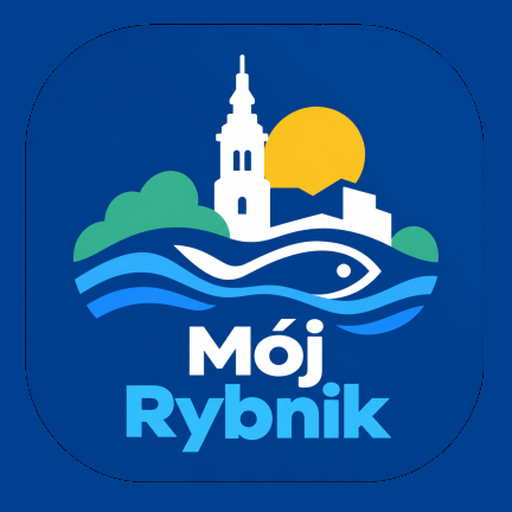
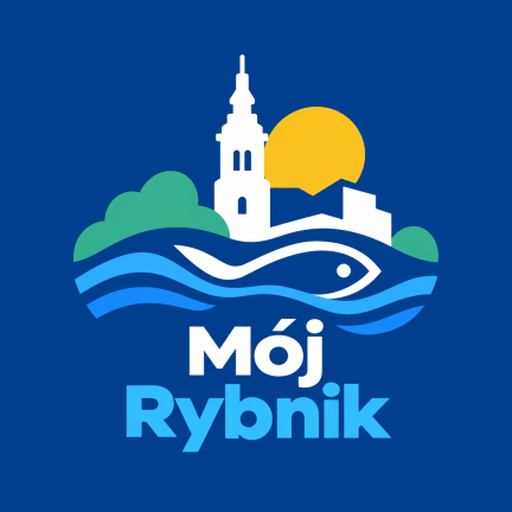
docs(play): store assets as uploaded for the first release
The old screenshots were 19:9 and Play Console takes only exactly 9:16
or 16:9, so screenshots-916/ holds new ones for phone, 7" and 10"
tablets, captioned within Google's 20% band, rebuilt by
make_store_assets.py from the raw captures. The icon loses its inner
rounded frame, since Play rounds the corners itself and the old one
came out as an icon inside an icon; the framed version is kept for
reference. Descriptions as plain text for pasting, because Play keeps
every line break the markdown copy has for readability.

diff --git a/play/make_store_assets.py b/play/make_store_assets.py
@@ -1,0 +1,150 @@
+#!/usr/bin/env python3
+# -*- coding: utf-8 -*-
+"""
+Grafiki do karty Mój Rybnik w Google Play.
+
+    python play/make_store_assets.py
+
+Wejście:  play/screenshots-916/raw-*/   surowe zrzuty z emulatorów 9:16
+          (telefon 1080×1920, tablet 7" 1080×1920 @280 dpi, tablet 10" 1440×2560 @320 dpi)
+Wyjście:  play/screenshots-916/phone/, tablet-7/, tablet-10/   zrzuty z podpisami
+          play/graphics/icon-512.png                           ikona bez wewnętrznej ramki
+
+Zasady Google Play, których pilnuje skrypt:
+  - proporcje dokładnie 9:16, boki 320–3840 px (telefon) i 1080–7680 px (tablety), do 8 MB
+  - podpis zajmuje najwyżej 20% wysokości; bez ramek urządzeń, bez „Pobierz teraz”, „#1”, cen
+  - PNG bez przezroczystości
+"""
+
+import sys
+from pathlib import Path
+
+from PIL import Image, ImageChops, ImageDraw, ImageFilter, ImageFont
+
+PLAY = Path(__file__).parent
+SHOTS = PLAY / "screenshots-916"
+FONTS = Path("C:/Windows/Fonts")
+
+NAVY, NAVY_2 = (0, 62, 142), (0, 38, 92)       # tło ikony aplikacji i jego ciemniejsza wersja
+WHITE, SKY = (255, 255, 255), (125, 200, 255)
+
+CAPTIONS = {
+    "01-start": ("Najważniejsze na jednym ekranie", "powietrze, komunikaty, wywóz i odjazdy"),
+    "02-odpady": ("Wywóz odpadów pod Twój adres", "przypomnienie wieczorem dzień wcześniej"),
+    "02-odjazdy": ("Odjazdy z Twojego przystanku", "rozkład KM Rybnik, także bez internetu"),
+    "03-polaczenia": ("Połączenia skąd–dokąd", "również z przesiadką"),
+    "03-kalendarz-odpadow": ("Kalendarz wywozów", "cały miesiąc dla Twojego adresu"),
+    "04-wydarzenia": ("Co się dzieje w mieście", "koncerty, spektakle, wystawy i sport"),
+    "05-wiadomosci": ("Lokalne wiadomości i komunikaty", "utrudnienia i awarie na górze listy"),
+    "06-gdzie-wyrzucic": ("Gdzie to wyrzucić?", "słownik odpadów, PSZOK i GPZON"),
+    "07-kalendarz-odpadow": ("Kalendarz wywozów", "cały miesiąc dla Twojego adresu"),
+    "08-ciemny-motyw": ("Jasny i ciemny motyw", "bez reklam i bez zakładania konta"),
+}
+
+SETS = {  # katalog wejściowy → (wyjściowy, rozmiar płótna, zakres boków wg Google)
+    "raw-phone": ("phone", (1080, 1920), (320, 3840)),
+    "raw-tablet7": ("tablet-7", (1080, 1920), (1080, 7680)),
+    "raw-tablet10": ("tablet-10", (1440, 2560), (1080, 7680)),
+}
+
+BAND = 0.1875      # pas z podpisem: 18,75% wysokości (limit Google to 20%)
+MAX_BYTES = 8 * 1024 * 1024
+
+
+def font(name, size):
+    return ImageFont.truetype(str(FONTS / name), size)
+
+
+def background(w, h):
+    top = Image.new("RGB", (w, h), NAVY)
+    bottom = Image.new("RGB", (w, h), NAVY_2)
+    mask = Image.linear_gradient("L").resize((w, h))
+    return Image.composite(bottom, top, mask)
+
+
+def fit_text(d, text, name, size, max_w):
+    while size > 20:
+        f = font(name, size)
+        if d.textlength(text, font=f) <= max_w:
+            return f
+        size -= 2
+    return font(name, size)
+
+
+def compose(raw: Path, size):
+    W, H = size
+    s = W / 1080
+    im = background(W, H)
+    d = ImageDraw.Draw(im)
+    title, sub = CAPTIONS[raw.stem]
+    band = int(H * BAND)
+
+    ft = fit_text(d, title, "segoeuib.ttf", int(66 * s), W - int(100 * s))
+    fs = fit_text(d, sub, "segoeui.ttf", int(42 * s), W - int(100 * s))
+    th = ft.getbbox(title)[3]
+    sh = fs.getbbox(sub)[3]
+    gap = int(18 * s)
+    y0 = (band - (th + gap + sh)) // 2 + int(10 * s)
+    d.text((W / 2, y0), title, font=ft, fill=WHITE, anchor="mt")
+    d.text((W / 2, y0 + th + gap), sub, font=fs, fill=SKY, anchor="mt")
+
+    shot = Image.open(raw).convert("RGB")
+    top, bottom = band + int(24 * s), H - int(44 * s)
+    sh_h = bottom - top
+    sh_w = round(sh_h * shot.width / shot.height)
+    shot = shot.resize((sh_w, sh_h), Image.LANCZOS)
+    x = (W - sh_w) // 2
+    r = int(34 * s)
+
+    mask = Image.new("L", (sh_w, sh_h), 0)
+    ImageDraw.Draw(mask).rounded_rectangle([0, 0, sh_w - 1, sh_h - 1], radius=r, fill=255)
+    shadow = Image.new("L", (W, H), 0)
+    shadow.paste(mask, (x, top + int(16 * s)))
+    shadow = shadow.filter(ImageFilter.GaussianBlur(int(28 * s))).point(lambda v: int(v * .55))
+    im.paste(Image.new("RGB", (W, H), (0, 12, 30)), (0, 0), shadow)
+    im.paste(shot, (x, top), mask)
+    return im
+
+
+def clean_icon():
+    """Ikona bez wewnętrznego zaokrąglonego kwadratu: Play sam zaokrągla rogi."""
+    src = PLAY / "graphics" / "icon-512-z-ramka.png"
+    if not src.exists():
+        (PLAY / "graphics" / "icon-512.png").rename(src)
+    im = Image.open(src).convert("RGB")
+    inner = Image.new("L", im.size, 0)
+    ImageDraw.Draw(inner).rounded_rectangle([41, 40, 467, 465], radius=110, fill=255)
+    art = ImageChops.difference(im, Image.new("RGB", im.size, NAVY)).convert("L").point(lambda v: 255 if v > 28 else 0)
+    art = ImageChops.multiply(art, inner).filter(ImageFilter.MaxFilter(7)).filter(ImageFilter.GaussianBlur(1.2))
+    out = Image.new("RGB", im.size, NAVY)
+    out.paste(im, (0, 0), art)
+    out.save(PLAY / "graphics" / "icon-512.png", optimize=True)
+    return out
+
+
+def main():
+    problems = []
+    for src_dir, (dst_dir, size, (lo, hi)) in SETS.items():
+        src, dst = SHOTS / src_dir, SHOTS / dst_dir
+        dst.mkdir(exist_ok=True)
+        raws = sorted(src.glob("*.png"))
+        for raw in raws:
+            out = dst / raw.name
+            compose(raw, size).save(out, optimize=True)
+            w, h = Image.open(out).size
+            ok = w * 16 == h * 9 and lo <= min(w, h) and max(w, h) <= hi and out.stat().st_size <= MAX_BYTES
+            if not ok:
+                problems.append(out)
+            print(f"  {dst_dir}/{out.name:<26} {w}×{h} {out.stat().st_size // 1024:>5} KB {'OK' if ok else 'BŁĄD'}")
+        if len(raws) < (2 if dst_dir == "phone" else 4):
+            problems.append(f"{dst_dir}: za mało zrzutów ({len(raws)})")
+
+    icon = clean_icon()
+    print(f"  graphics/icon-512.png {icon.size} {icon.mode}")
+    if problems:
+        sys.exit(f"Problemy: {problems}")
+    print("Wszystko w limitach Google Play.")
+
+
+if __name__ == "__main__":
+    main()

diff --git a/play/store-listing.md b/play/store-listing.md
@@ -33,6 +33,9 @@ Mój Rybnik zbiera w jednym miejscu to, czego rybniczanin szuka w ciągu dnia: k
 jedzie autobus, kiedy zabiorą śmieci spod domu, co się dzieje wieczorem w mieście i
 czy da się dziś otworzyć okno.
 
+To niezależny projekt, a nie oficjalna aplikacja Urzędu Miasta Rybnika. Skąd
+pochodzą dane, piszemy na końcu opisu.
+
 CO ZNAJDZIESZ W APLIKACJI
 
 Start
@@ -101,10 +104,11 @@ systemu.
 
 ŹRÓDŁA DANYCH
 
-KM Rybnik (rozkład jazdy), EKO Sp. z o.o. i Miasto Rybnik (odpady, PSZOK, GPZON),
-Główny Inspektorat Ochrony Środowiska (powietrze), IMGW (ostrzeżenia), Tauron
-Dystrybucja (wyłączenia prądu), lokalne redakcje i instytucje kultury (wydarzenia
-i wiadomości), 90minut.pl i kluby (sport).
+KM Rybnik, km.rybnik.pl (rozkład jazdy); Miasto Rybnik i EKO Sp. z o.o., rybnik.eu
+(odpady, PSZOK, GPZON); Główny Inspektorat Ochrony Środowiska, gios.gov.pl
+(powietrze); IMGW, danepubliczne.imgw.pl (ostrzeżenia); Tauron Dystrybucja,
+tauron-dystrybucja.pl (wyłączenia prądu); lokalne redakcje i instytucje kultury
+(wydarzenia i wiadomości); 90minut.pl i kluby (sport).
 
 Aplikacja jest projektem niezależnym i nie jest oficjalnym produktem Miasta Rybnik ani
 żadnej z wymienionych instytucji. Dane prezentujemy w dobrej wierze, ale nie
@@ -114,7 +118,7 @@ gwarantujemy ich poprawności ani aktualności. W sprawach urzędowych zawsze sp
 Błąd, brakujące wydarzenie albo pomysł na nową funkcję: office@admin-stack.com
 ```
 
-*(3626 znaków.)*
+*(3924 znaków. Do wklejenia bierz `play/opis-pelny.txt` — tu wiersze są łamane dla czytelności, a Play zachowałby każde złamanie.)*
 
 ---
 
@@ -154,23 +158,35 @@ o wywozie, smogu i awariach. Jasny i ciemny motyw.
 
 ## Zrzuty ekranu
 
-W `play/screenshots/`, wszystkie 1080 × 2280 px (Pixel 4, Android 13). Google wymaga
-od 2 do 8 sztuk dla telefonu, proporcje między 9:16 a 16:9, krótszy bok minimum 320 px.
-Nasze spełniają te warunki bez przeróbek.
+⚠ **Stare zrzuty z `play/screenshots/` (1080 × 2280) się nie nadają.** Play Console
+wymaga proporcji dokładnie 9:16 albo 16:9, a te mają 19:9. Zostają tylko jako archiwum.
 
-Sugerowana kolejność w sklepie — pierwsze trzy widać w wynikach wyszukiwania, więc
-niosą najwięcej:
+Nowe zrzuty są w `play/screenshots-916/`, zrobione na wersji 1.2.5 na emulatorach
+o proporcjach 9:16. Każdy ma podpis w górnym pasie, który zajmuje 18,75% wysokości
+(Google pozwala na 20%). Nie mają ramek urządzeń ani haseł typu „Pobierz teraz”.
+Przebudowa: `python play/make_store_assets.py` (surowe zrzuty w `raw-*`).
 
-1. `01-start.png` — ekran główny, wszystko naraz
-2. `03-smieci-lista.png` — harmonogram odpadów dla konkretnego adresu
-3. `05-transport.png` — przystanki z ulubionym na górze
-4. `02-wydarzenia.png` — lista wydarzeń z filtrami
-5. `06-wiadomosci.png` — wiadomości i komunikaty
-6. `08-powietrze.png` — jakość powietrza
-7. `07-sport.png` — terminarz i wyniki
-8. `09-ciemny-motyw.png` — ciemny motyw
+**Telefon** — `phone/`, 1080 × 1920, w tej kolejności (pierwsze trzy widać
+w wynikach wyszukiwania):
+
+1. `01-start.png` — Najważniejsze na jednym ekranie
+2. `02-odpady.png` — Wywóz odpadów pod Twój adres
+3. `03-polaczenia.png` — Połączenia skąd–dokąd
+4. `04-wydarzenia.png` — Co się dzieje w mieście
+5. `05-wiadomosci.png` — Lokalne wiadomości i komunikaty
+6. `06-gdzie-wyrzucic.png` — Gdzie to wyrzucić?
+7. `07-kalendarz-odpadow.png` — Kalendarz wywozów
+8. `08-ciemny-motyw.png` — Jasny i ciemny motyw
+
+**Tablet 7"** — `tablet-7/`, 1080 × 1920 (emulator 7", 617 dp szerokości).
+**Tablet 10"** — `tablet-10/`, 1440 × 2560 (emulator 10", 720 dp szerokości).
+Po cztery, bo tyle Google wymaga dla tabletów: start, odjazdy z przystanku,
+kalendarz wywozów, wydarzenia. To prawdziwe zrzuty z tabletu: aplikacja nie ma
+osobnego układu dla dużych ekranów, więc pokazują rozciągnięty układ z telefonu.
 
 ## Grafiki
 
-- `play/graphics/icon-512.png` — ikona 512 × 512 (wymagana)
-- `play/graphics/feature-graphic-1024x500.png` — grafika promocyjna 1024 × 500 (wymagana)
+- `play/graphics/icon-512.png` — ikona 512 × 512 **bez wewnętrznej ramki**. Poprzednia
+  (`icon-512-z-ramka.png`) miała zaokrąglony kwadrat z obwódką, a Play sam zaokrągla
+  rogi, więc w sklepie wyszłaby „ikona w ikonie”.
+- `play/graphics/feature-graphic-1024x500.png` — grafika promocyjna 1024 × 500 (bez zmian)
